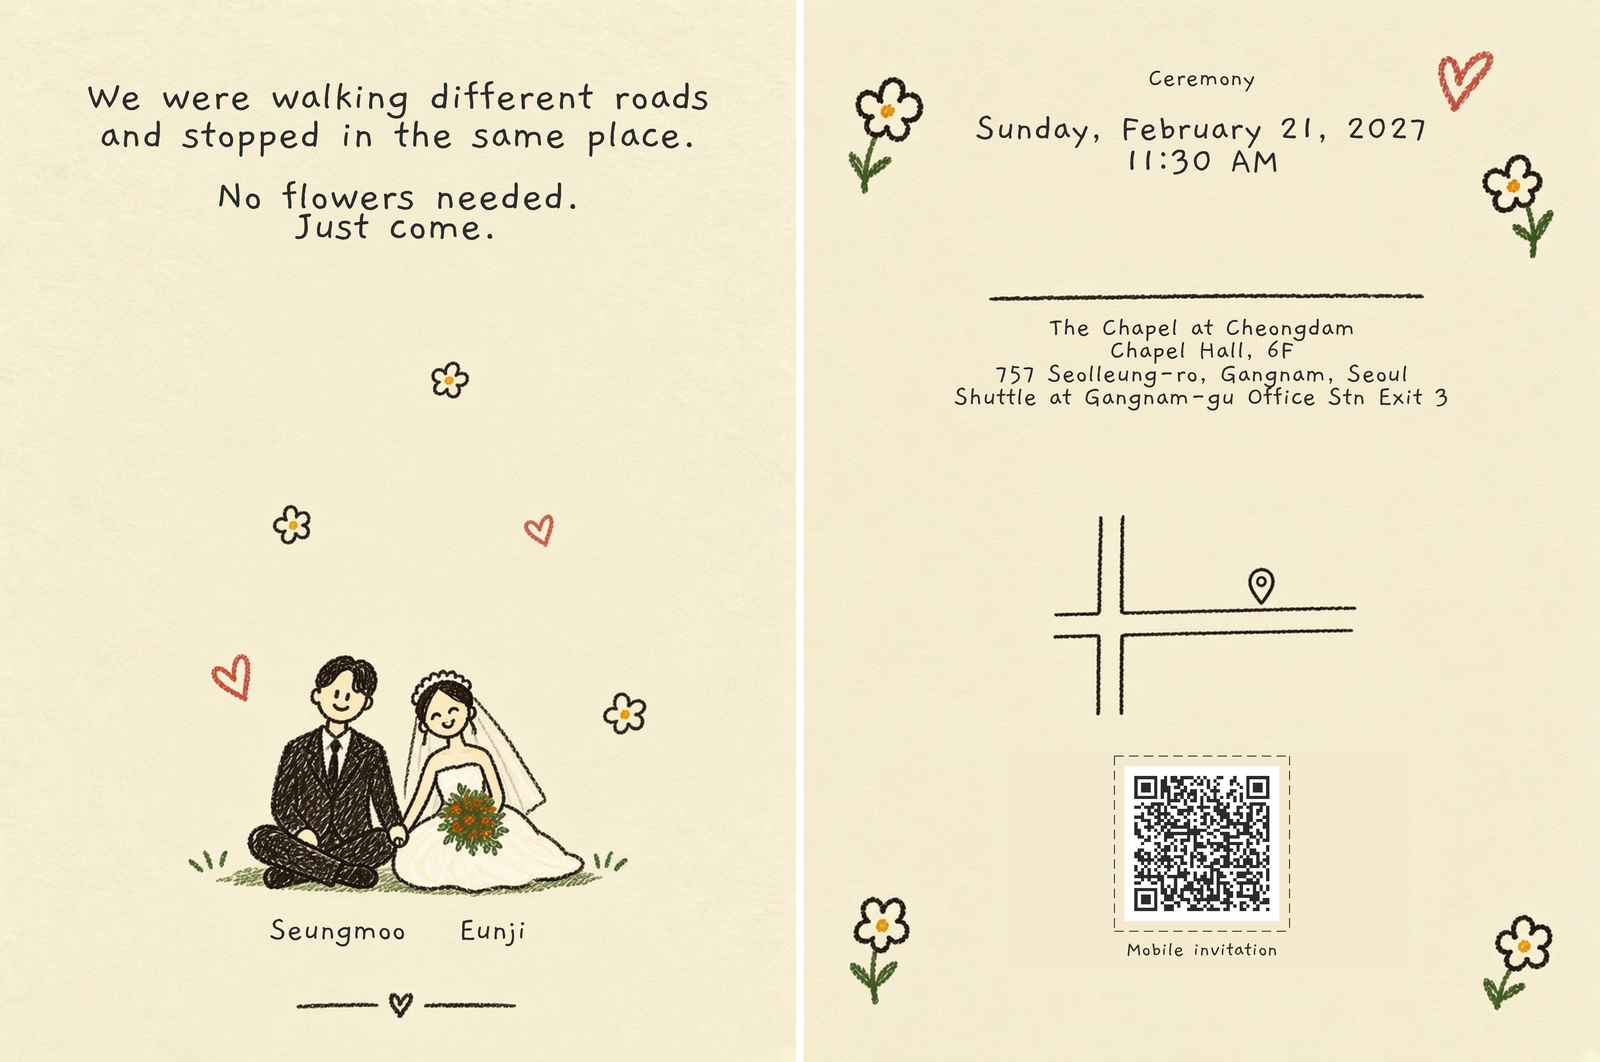
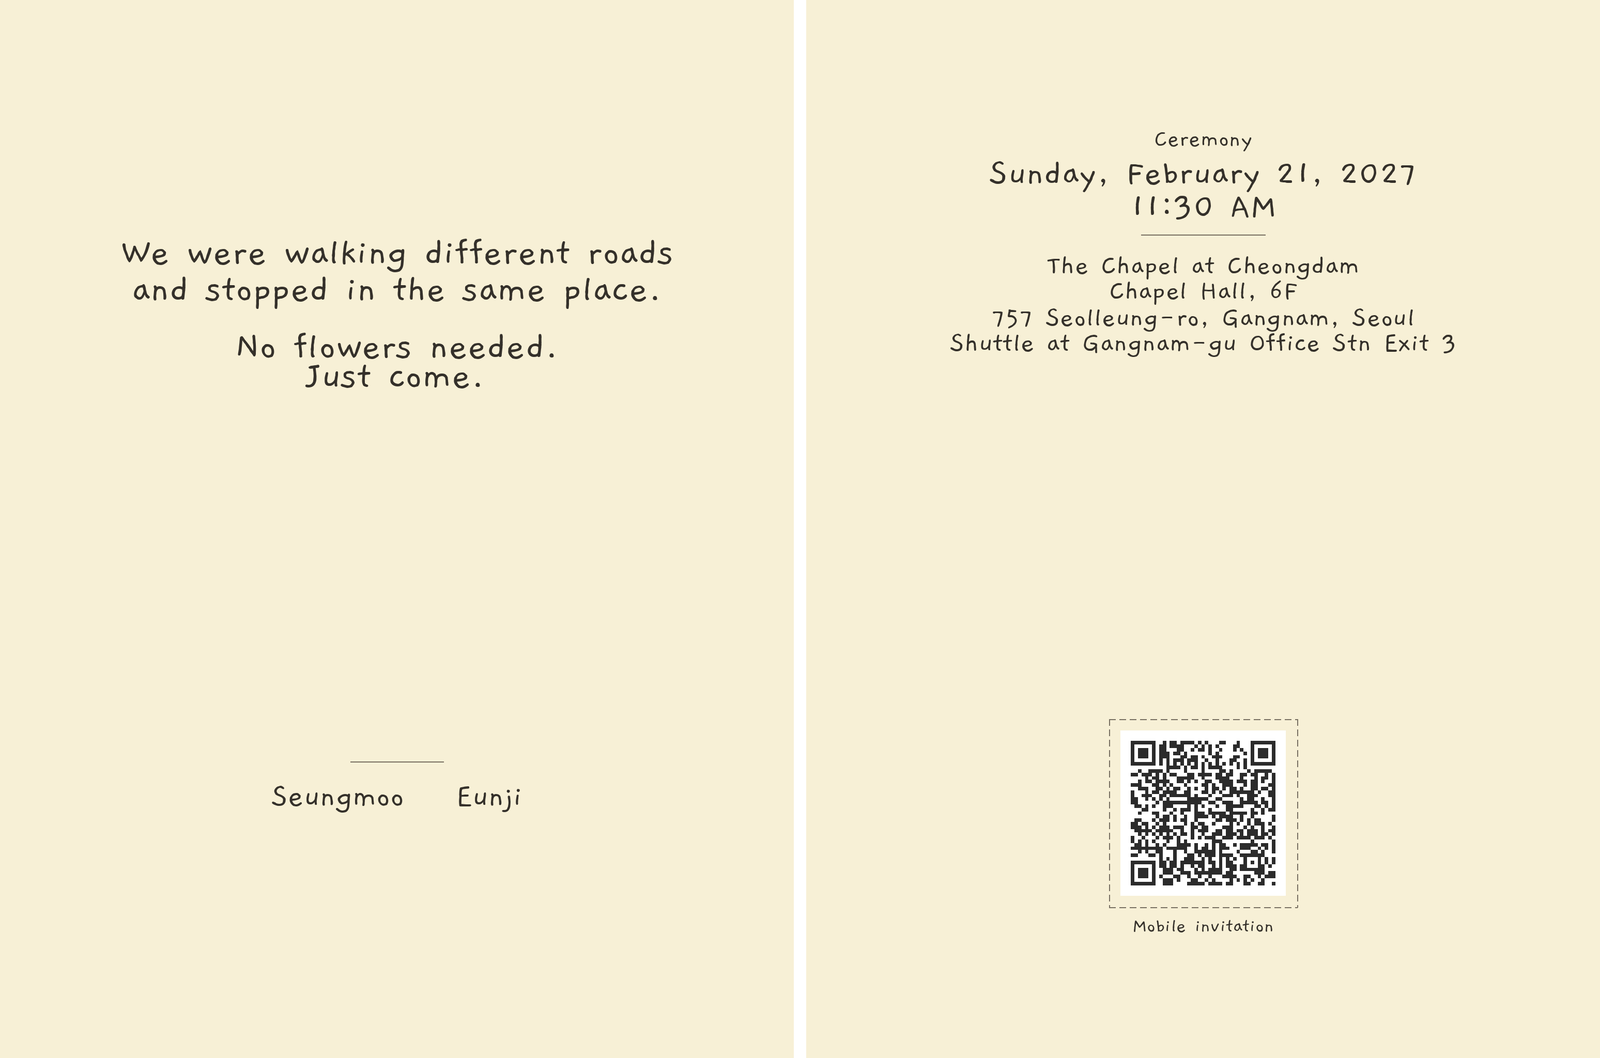
docs: drop illustrations from inner pages
Keep cream paper, copy, and postage-stamp QR only.

diff --git a/paper-invitation/compose_inner.py b/paper-invitation/compose_inner.py
@@ -1,5 +1,8 @@
 #!/usr/bin/env python3
-"""Compose doodle-style inner pages with real Korean text and a scannable QR."""
+"""Compose text-only inner pages with a scannable postage-stamp QR.
+
+No illustrations — cream paper, copy, and QR only.
+"""
 
 from __future__ import annotations
 
@@ -9,12 +12,14 @@ import segno
 from PIL import Image, ImageDraw, ImageFont
 
 ROOT = Path(__file__).resolve().parent
-ART = ROOT / "art"
 FONT_DIR = ROOT / "fonts"
 URL = "https://seungmoo-eunji-wedding-invitation.vercel.app/"
-SCALE = 3
-INK = (44, 44, 44)
-CREAM_RIGHT = (244, 234, 207)
+
+# Print-friendly at ~300dpi for ~130×174mm cards
+W, H = 1536, 2048
+INK = (52, 48, 42)
+CREAM = (247, 240, 214)
+RULE = (120, 112, 98)
 
 LEFT_GREETING_KO = [
     "서로 다른 길로 걷다가",
@@ -64,11 +69,8 @@ RIGHT_VENUE_EN = [
 ]
 RIGHT_CAPTION_EN = "Mobile invitation"
 
-
 KR_FONT = "Gaegu-Regular.ttf"
-FONT_URL = (
-    "https://github.com/google/fonts/raw/main/ofl/gaegu/Gaegu-Regular.ttf"
-)
+FONT_URL = "https://github.com/google/fonts/raw/main/ofl/gaegu/Gaegu-Regular.ttf"
 
 
 def ensure_font() -> None:
@@ -81,8 +83,12 @@ def ensure_font() -> None:
     urlretrieve(FONT_URL, dest)
 
 
-def font(size: int, name: str = KR_FONT) -> ImageFont.FreeTypeFont:
-    return ImageFont.truetype(str(FONT_DIR / name), size)
+def font(size: int) -> ImageFont.FreeTypeFont:
+    return ImageFont.truetype(str(FONT_DIR / KR_FONT), size)
+
+
+def blank() -> Image.Image:
+    return Image.new("RGB", (W, H), CREAM)
 
 
 def text_size(draw: ImageDraw.ImageDraw, text: str, fnt: ImageFont.FreeTypeFont) -> tuple[int, int]:
@@ -106,17 +112,17 @@ def draw_centered_lines(
             draw.text((center_x - w / 2, y), line, font=fnt, fill=fill)
             y += h + gap
         else:
-            y += max(36, int(getattr(fnt, "size", 80) * 0.55))
+            y += max(28, int(getattr(fnt, "size", 64) * 0.55))
     return y
 
 
 def dashed_rect(
     draw: ImageDraw.ImageDraw,
     box: tuple[int, int, int, int],
-    width: int,
-    dash: int,
-    gap: int,
-    fill: tuple[int, int, int],
+    width: int = 2,
+    dash: int = 12,
+    gap: int = 8,
+    fill: tuple[int, int, int] = RULE,
 ) -> None:
     x0, y0, x1, y1 = box
 
@@ -145,63 +151,49 @@ def make_qr(size: int) -> Image.Image:
     return im.resize((size, size), Image.Resampling.NEAREST)
 
 
-def upscale(src: Path) -> Image.Image:
-    im = Image.open(src).convert("RGB")
-    w, h = im.size
-    return im.resize((w * SCALE, h * SCALE), Image.Resampling.LANCZOS)
-
-
-def compose_left(art: Path, greeting: list[str], names: str, dest: Path) -> None:
-    im = upscale(art)
+def compose_left(greeting: list[str], names: str, dest: Path) -> None:
+    im = blank()
     draw = ImageDraw.Draw(im)
-    cx = im.width // 2
-    title = font(148)
-    name_f = font(110)
-    draw_centered_lines(draw, greeting, cx, top=int(im.height * 0.07), fnt=title, gap=2)
-    draw_centered_lines(draw, [names], cx, top=int(im.height * 0.86), fnt=name_f, gap=0)
+    cx = W // 2
+    body = font(78)
+    name_f = font(64)
+    y = draw_centered_lines(draw, greeting, cx, top=int(H * 0.22), fnt=body, gap=6)
+    # thin rule, then names — no doodles
+    rule_y = max(y + 80, int(H * 0.72))
+    draw.line([(cx - 90, rule_y), (cx + 90, rule_y)], fill=RULE, width=2)
+    draw_centered_lines(draw, [names], cx, top=rule_y + 36, fnt=name_f, gap=0)
     im.save(dest, "PNG")
 
 
 def compose_right(
-    art: Path,
     date_lines: list[str],
     venue_lines: list[str],
     caption: str,
     dest: Path,
 ) -> None:
-    im = upscale(art)
+    im = blank()
     draw = ImageDraw.Draw(im)
-    cx = im.width // 2
-    label = font(88)
-    date_f = font(128)
-    venue_f = font(92)
-    cap = font(72)
+    cx = W // 2
+    label = font(48)
+    date_f = font(72)
+    venue_f = font(56)
+    cap = font(40)
 
-    draw_centered_lines(draw, [date_lines[0]], cx, top=int(70 * SCALE), fnt=label, gap=0)
-    draw_centered_lines(draw, date_lines[2:], cx, top=int(118 * SCALE), fnt=date_f, gap=0)
-    draw_centered_lines(draw, venue_lines, cx, top=int(340 * SCALE), fnt=venue_f, gap=0)
+    y = draw_centered_lines(draw, [date_lines[0]], cx, top=int(H * 0.12), fnt=label, gap=0)
+    y = draw_centered_lines(draw, date_lines[2:], cx, top=y + 18, fnt=date_f, gap=4)
+    draw.line([(cx - 120, y + 40), (cx + 120, y + 40)], fill=RULE, width=2)
+    draw_centered_lines(draw, venue_lines, cx, top=y + 72, fnt=venue_f, gap=4)
 
-    # hide the wide landscape dashed box, drop a square stamp + real QR
-    box = (int(220 * SCALE), int(808 * SCALE), int(662 * SCALE), int(1050 * SCALE))
-    draw.rectangle(box, fill=CREAM_RIGHT)
-
-    qr_size = int(168 * SCALE)
-    stamp = qr_size + int(22 * SCALE)
-    sx = (im.width - stamp) // 2
-    sy = int(820 * SCALE)
-    qr = make_qr(qr_size)
-    im.paste(qr, (sx + int(11 * SCALE), sy + int(11 * SCALE)))
+    qr_size = 320
+    pad = 22
+    stamp = qr_size + pad * 2
+    sx = (W - stamp) // 2
+    sy = int(H * 0.68)
+    im.paste(make_qr(qr_size), (sx + pad, sy + pad))
     draw = ImageDraw.Draw(im)
-    dashed_rect(
-        draw,
-        (sx, sy, sx + stamp, sy + stamp),
-        width=max(2, SCALE),
-        dash=int(10 * SCALE),
-        gap=int(6 * SCALE),
-        fill=INK,
-    )
-    w, h = text_size(draw, caption, cap)
-    draw.text(((im.width - w) / 2, sy + stamp + int(8 * SCALE)), caption, font=cap, fill=INK)
+    dashed_rect(draw, (sx, sy, sx + stamp, sy + stamp))
+    w, _ = text_size(draw, caption, cap)
+    draw.text(((W - w) / 2, sy + stamp + 16), caption, font=cap, fill=INK)
     im.save(dest, "PNG")
 
 
@@ -220,21 +212,15 @@ def make_spread(left: Path, right: Path, dest: Path) -> None:
 
 def main() -> None:
     ensure_font()
-    ART.mkdir(exist_ok=True)
-    left_art = ART / "inner-left-art.jpg"
-    right_art = ART / "inner-right-art.jpg"
-    if not left_art.exists() or not right_art.exists():
-        raise SystemExit("art images missing")
-
     left_ko = ROOT / "inner-left-ko.png"
     right_ko = ROOT / "inner-right-ko.png"
     left_en = ROOT / "inner-left-en.png"
     right_en = ROOT / "inner-right-en.png"
 
-    compose_left(left_art, LEFT_GREETING_KO, LEFT_NAMES_KO, left_ko)
-    compose_right(right_art, RIGHT_DATE_KO, RIGHT_VENUE_KO, RIGHT_CAPTION_KO, right_ko)
-    compose_left(left_art, LEFT_GREETING_EN, LEFT_NAMES_EN, left_en)
-    compose_right(right_art, RIGHT_DATE_EN, RIGHT_VENUE_EN, RIGHT_CAPTION_EN, right_en)
+    compose_left(LEFT_GREETING_KO, LEFT_NAMES_KO, left_ko)
+    compose_right(RIGHT_DATE_KO, RIGHT_VENUE_KO, RIGHT_CAPTION_KO, right_ko)
+    compose_left(LEFT_GREETING_EN, LEFT_NAMES_EN, left_en)
+    compose_right(RIGHT_DATE_EN, RIGHT_VENUE_EN, RIGHT_CAPTION_EN, right_en)
     make_spread(left_ko, right_ko, ROOT / "inner-spread-ko.png")
     make_spread(left_en, right_en, ROOT / "inner-spread-en.png")
 

diff --git a/paper-invitation/안쪽-문구.md b/paper-invitation/안쪽-문구.md
@@ -1,9 +1,21 @@
 # 종이청첩장 안쪽
 
-앞면 손그림 톤을 그대로 가져왔다.
-2단 접이. 펼치면 왼쪽은 인사, 오른쪽은 때·곳·우표 QR.
+글과 QR만. 일러스트 없음.
+2단 접이. 왼쪽 인사, 오른쪽 때·곳·우표 QR.
 
-혼주 성함은 아직 비워 두었다. 알려주면 넣는다.
+## 문구 출처
+
+| 부분 | 어디서 |
+| --- | --- |
+| 날짜·시간 | 웹 초대장 / `invitation/page.tsx` 푸터 |
+| 장소·주소·셔틀 | 웹 `Location` 섹션 |
+| 신랑·신부 이름 | 웹 `김승무` `성은지` |
+| 왼쪽 인사 | 새로 씀. 앞면·웹에 있던 문장 아님 |
+| 계좌 | 종이에 안 넣음. QR → 모바일 |
+
+웹에 쓰던 『모순』 인용은 안쪽에 안 넣었다. 쓰고 싶으면 아래 대체안.
+
+혼주 성함은 아직 없음. 알려주면 넣는다.
 
 ## 왼쪽 — 인사
 
@@ -22,7 +34,7 @@
 김○○ · ○○○의 아들 승무
 성○○ · ○○○의 딸 은지
 
-웹 초대장 인용구를 쓰고 싶다면 인사 자리에 이걸로 바꿔도 된다.
+웹 인용 대체안:
 
 사랑하지 않고 스쳐 갈 수도 있었는데,
 사랑일지도 모른다고 걸음을 멈춰준
@@ -47,11 +59,7 @@
 모바일 청첩장
 https://seungmoo-eunji-wedding-invitation.vercel.app/
 
-계좌는 종이에 안 넣었다. QR 넘어가면 있다.
-
 ## 영어 안쪽
-
-앞면 영어 카드용.
 
 We were walking different roads
 and stopped in the same place.
@@ -69,55 +77,20 @@ Chapel Hall, 6F
 757 Seolleung-ro, Gangnam, Seoul
 Shuttle at Gangnam-gu Office Stn Exit 3
 
-## QR을 자연스럽게 넣는 법
+## QR
 
-인쇄 QR은 정사각형, 흰 여백, 한 변 2.5cm 이상.
-하트·원으로 자르면 코너가 날아가서 스캔이 잘 안 된다.
-
-### 1. 우표 — 지금 시안
-
-점선 네모 안에 QR, 아래 작게 `모바일 청첩장`.
-앞면 낙서랑 제일 잘 붙는다. 스캔도 안전하다.
-인쇄소에 `qr-print.png`를 따로 줘도 된다.
-
-### 2. 문 창문
-
-웹 인트로가 문 열기다.
-작은 문을 그리고, 창문에 QR을 넣는다.
-문은 테두리만. QR은 네모 그대로.
-
-세계관은 이어지는데, 문 그림이 커지면 예식 정보가 밀린다.
-
-### 3. 봉투와 왁스실
-
-웹에 실랍 인트로도 있다.
-실을 QR로 쓰면 동그라미로 잘리니 쓰지 말 것.
-봉투 그림 옆에 네모 우표로 붙이는 편이 낫다.
-
-### 4. 약도 아래
-
-기능은 분명하다. “길 보고 들어오세요.”
-다만 낙서 앞면과는 안내문 느낌이 난다.
-지금 시안은 십자 약도는 장식으로만 두고, QR은 아래로 뺐다.
-
-### 5. 하트 프레임 — 비추천
-
-예쁘다. 코너가 잘리면 스캔이 죽는다.
+점선 네모(우표) 안에 정사각 QR. 아래 `모바일 청첩장`.
+한 변 2.5cm 이상. 하트·원으로 자르지 말 것.
 
 ## 파일
 
 | 파일 | 용도 |
 | --- | --- |
-| `inner-left-ko.png` / `inner-right-ko.png` | 한글 안쪽, 인쇄용 |
+| `inner-left-ko.png` / `inner-right-ko.png` | 한글 안쪽 |
 | `inner-left-en.png` / `inner-right-en.png` | 영어 안쪽 |
 | `inner-spread-ko.png` | 펼친 미리보기 |
-| `qr.svg` / `qr.png` / `qr-print.png` | 스캔 확인된 QR |
-| `compose_inner.py` | 문구 고치고 다시 그리기 |
-
-인쇄 카드는 130×174mm 또는 A5.
-크림 종이. QR은 축소해도 한 변 2.5cm는 남길 것.
-
-다시 그리기:
+| `qr.svg` / `qr.png` / `qr-print.png` | QR |
+| `compose_inner.py` | 다시 그리기 |
 
 ```
 python3 paper-invitation/compose_inner.py

diff --git a/history/2026-10-26_docs_종이청첩장-안쪽.md b/history/2026-10-26_docs_종이청첩장-안쪽.md
@@ -2,10 +2,10 @@
 
 2026-10-26 (Asia/Seoul)
 
-앞면 손그림에 맞춰 안쪽 2면을 만들었다.
-왼쪽은 짧은 인사, 오른쪽은 예식 정보와 우표 QR.
+안쪽 2면. 글과 QR만. 일러스트 없음.
 
-QR은 `https://seungmoo-eunji-wedding-invitation.vercel.app/` 로 스캔 확인했다.
-혼주 이름은 아직 없다. 문구 파일에 빈칸만 남겨 두었다.
+날짜·장소는 웹 초대장/코드에서 가져왔다.
+왼쪽 인사는 새로 썼다. 앞면·웹 인용구 아님.
 
-계좌는 종이에 넣지 않았다. 모바일 청첩장으로 넘긴다.
+QR은 `https://seungmoo-eunji-wedding-invitation.vercel.app/` .
+혼주 이름 아직 없음.
